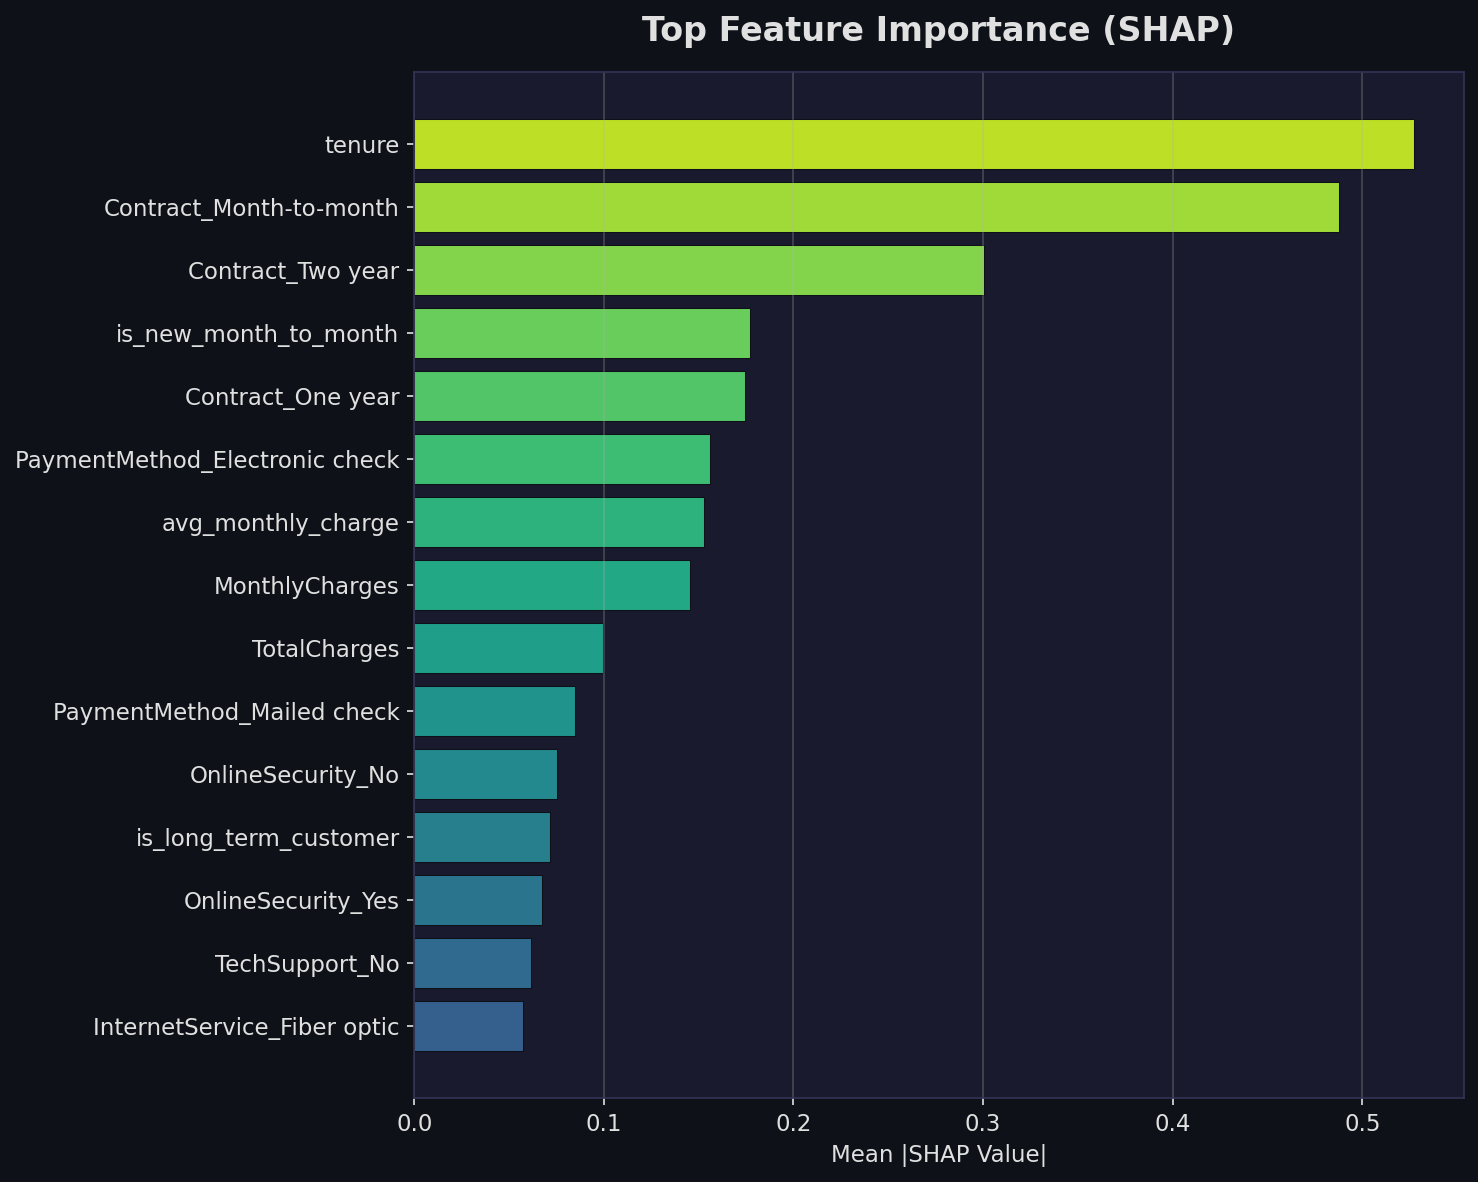
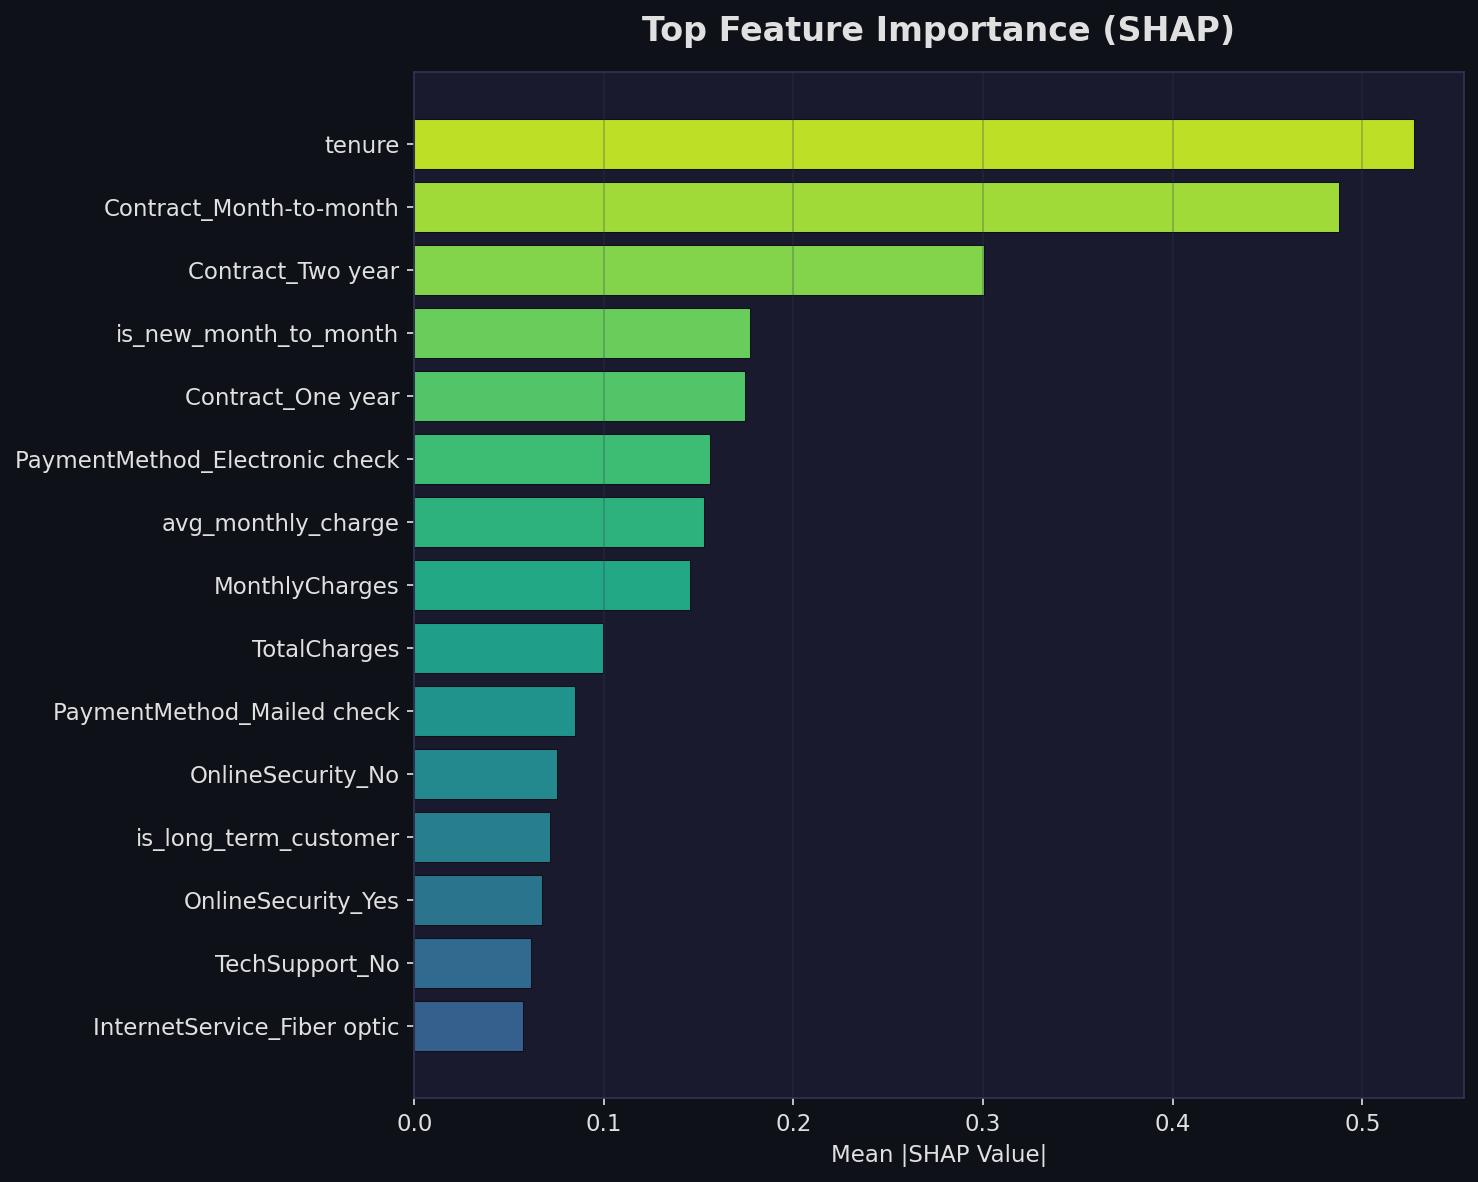
feat: add end-to-end pipeline runner and synchronized top navigation bar

diff --git a/dashboard/app.py b/dashboard/app.py
@@ -155,7 +155,21 @@ def inject_css():
     /* Hide Streamlit branding */
     #MainMenu { visibility: hidden; }
     footer { visibility: hidden; }
-    header { visibility: hidden; }
+    header { background: transparent; }
+
+    /* Style the sidebar collapse button to be visible and premium */
+    [data-testid="stSidebarCollapse"] {
+        background-color: #1A1A2E !important;
+        border: 1px solid #333355 !important;
+        border-radius: 8px !important;
+        color: #6C63FF !important;
+        transition: all 0.3s ease !important;
+    }
+    [data-testid="stSidebarCollapse"]:hover {
+        background-color: #6C63FF !important;
+        color: #FFFFFF !important;
+        box-shadow: 0 0 10px rgba(108, 99, 255, 0.5) !important;
+    }
 
     /* Gauge */
     .gauge-container {
@@ -892,10 +906,16 @@ def page_recommendations():
                 st.error(f"Error generating report: {e}")
 
 
-# ── Sidebar Navigation ────────────────────────────────────────────────────────
+# ── Navigation & Page Routing ──────────────────────────────────────────────────
+
+PAGES = ["📊 Executive Summary", "🔎 Customer Insights", "🎯 Prediction Center", "💡 Recommendations"]
 
 def main():
     inject_css()
+
+    # Initialize active page state
+    if "active_page" not in st.session_state:
+        st.session_state.active_page = PAGES[0]
 
     with st.sidebar:
         st.markdown("""
@@ -914,12 +934,16 @@ def main():
 
         st.markdown("---")
 
-        page = st.radio(
+        selected_page = st.radio(
             "Navigate",
-            ["📊 Executive Summary", "🔎 Customer Insights",
-             "🎯 Prediction Center", "💡 Recommendations"],
+            PAGES,
+            index=PAGES.index(st.session_state.active_page),
             label_visibility="collapsed",
         )
+        
+        if selected_page != st.session_state.active_page:
+            st.session_state.active_page = selected_page
+            st.rerun()
 
         st.markdown("---")
 
@@ -950,14 +974,28 @@ def main():
         </div>
         """, unsafe_allow_html=True)
 
-    # Route pages
-    if "Executive Summary" in page:
+    # ── Top Navigation Bar (Horizontal Tabs) ──
+    cols = st.columns(len(PAGES))
+    for i, p in enumerate(PAGES):
+        with cols[i]:
+            is_active = st.session_state.active_page == p
+            # Use primary type for active, secondary for inactive
+            if st.button(p, key=f"nav_btn_{i}", use_container_width=True, 
+                         type="primary" if is_active else "secondary"):
+                st.session_state.active_page = p
+                st.rerun()
+
+    st.markdown("<hr style='margin: 0.5rem 0 1.5rem 0; opacity: 0.1;'>", unsafe_allow_html=True)
+
+    # Route pages based on active_page
+    current_page = st.session_state.active_page
+    if "Executive Summary" in current_page:
         page_executive_summary()
-    elif "Customer Insights" in page:
+    elif "Customer Insights" in current_page:
         page_customer_insights()
-    elif "Prediction Center" in page:
+    elif "Prediction Center" in current_page:
         page_prediction_center()
-    elif "Recommendations" in page:
+    elif "Recommendations" in current_page:
         page_recommendations()
 
 

diff --git a/run_pipeline.py b/run_pipeline.py
@@ -1,0 +1,56 @@
+"""
+Run the entire Customer Churn Intelligence pipeline end-to-end.
+Usage: python run_pipeline.py
+"""
+
+import sys
+import os
+import io
+
+# Fix Windows Unicode encoding
+sys.stdout = io.TextIOWrapper(sys.stdout.buffer, encoding="utf-8", errors="replace")
+sys.stderr = io.TextIOWrapper(sys.stderr.buffer, encoding="utf-8", errors="replace")
+
+sys.path.insert(0, os.path.dirname(__file__))
+
+
+def main():
+    print("=" * 60)
+    print("  CUSTOMER CHURN INTELLIGENCE — FULL PIPELINE")
+    print("=" * 60)
+
+    steps = [
+        ("1/8", "Generating synthetic dataset",    "src.generate_dataset",    "main"),
+        ("2/8", "Cleaning data",                   "src.data_cleaning",       "run_pipeline"),
+        ("3/8", "Engineering features",             "src.feature_engineering", "run_feature_engineering"),
+        ("4/8", "Running exploratory analysis",     "src.eda",                 "run_eda"),
+        ("5/8", "Segmenting customers",             "src.segmentation",        "run_segmentation"),
+        ("6/8", "Training ML models",               "src.train_model",         "run_training"),
+        ("7/8", "Generating SHAP explanations",     "src.explainability",      "run_explainability"),
+        ("8/8", "Generating PDF report",            "src.report_generator",    "generate_report"),
+    ]
+
+    for step_num, description, module_name, func_name in steps:
+        print(f"\n{'='*60}")
+        print(f"  [{step_num}] {description}...")
+        print(f"{'='*60}")
+
+        try:
+            module = __import__(module_name, fromlist=[func_name])
+            func = getattr(module, func_name)
+            func()
+        except Exception as e:
+            print(f"\n  [FAILED] Step {step_num} failed: {e}")
+            print(f"  Stopping pipeline.")
+            sys.exit(1)
+
+    print("\n" + "=" * 60)
+    print("  PIPELINE COMPLETE!")
+    print("=" * 60)
+    print("\n  All data, models, charts, and reports have been generated.")
+    print("  Launch the dashboard with: streamlit run dashboard/app.py")
+    print()
+
+
+if __name__ == "__main__":
+    main()

diff --git a/summary.md b/summary.md
@@ -22,6 +22,7 @@ customer-churn-intelligence/
 ├── models/              → Saved ML model artifacts
 ├── reports/             → Generated charts, insights, and PDF report
 ├── requirements.txt     → Python dependencies
+├── run_pipeline.py      → End-to-end pipeline runner
 ├── README.md            → Project documentation
 └── summary.md           → This file
 ```
@@ -35,6 +36,7 @@ customer-churn-intelligence/
 | File | Description |
 |---|---|
 | `requirements.txt` | Lists all 12 Python packages needed to run the project (pandas, scikit-learn, xgboost, shap, streamlit, reportlab, etc.) |
+| `run_pipeline.py` | Runs the entire end-to-end pipeline (generation to report generation) with a single command |
 | `README.md` | Full project documentation with setup instructions, features list, and tech stack badges |
 | `summary.md` | This summary document |
 
@@ -147,7 +149,15 @@ pip install -r requirements.txt
 ```
 
 ### Step 2 — Run the Data Pipeline
-Run these commands **in order** from the project root:
+Run the entire end-to-end pipeline with a single command from the project root:
+
+```bash
+python run_pipeline.py
+```
+
+This runs all 8 pipeline steps in sequence, handles Windows Unicode encoding automatically, and generates all cleaned data, models, reports, and insights.
+
+Alternatively, you can run individual scripts from the `src/` directory in order:
 
 ```bash
 # Generate the synthetic dataset
@@ -175,19 +185,11 @@ python src/explainability.py
 python src/report_generator.py
 ```
 
-> **Note (Windows):** If you get Unicode errors, prefix commands with:
-> `$env:PYTHONIOENCODING='utf-8'; python src/generate_dataset.py`
-
 ### Step 3 — Launch the Dashboard
 ```bash
 streamlit run dashboard/app.py
 ```
-Opens at **http://localhost:8501** with all 4 pages ready to explore.
-
-### Quick One-Liner (Run Entire Pipeline)
-```bash
-python src/generate_dataset.py && python src/data_cleaning.py && python src/feature_engineering.py && python src/eda.py && python src/segmentation.py && python src/train_model.py && python src/explainability.py && python src/report_generator.py
-```
+Opens at **http://localhost:8501** with all 4 pages and a synchronized top navigation bar ready to explore.
 
 ---
 

diff --git a/README.md b/README.md
@@ -59,6 +59,7 @@ customer-churn-intelligence/
 ├── .streamlit/
 │   └── config.toml             # Streamlit theme configuration
 ├── requirements.txt
+├── run_pipeline.py            # End-to-end pipeline runner
 └── README.md
 ```
 
@@ -84,6 +85,16 @@ pip install -r requirements.txt
 ### Run the Full Pipeline
 
 > **Note:** The `data/`, `models/`, and `reports/` folders are empty after cloning. Running the pipeline below generates all datasets, model artifacts, charts, and reports.
+
+To run the entire end-to-end pipeline with a single command:
+
+```bash
+python run_pipeline.py
+```
+
+This runs all 8 pipeline steps in sequence, handles Windows Unicode encoding automatically, and generates all cleaned data, models, reports, and insights.
+
+Alternatively, you can run individual scripts from the `src/` directory in order:
 
 ```bash
 # 1. Generate synthetic dataset